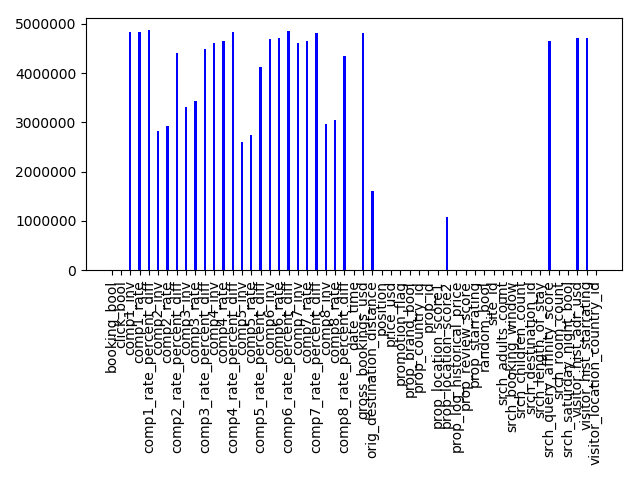
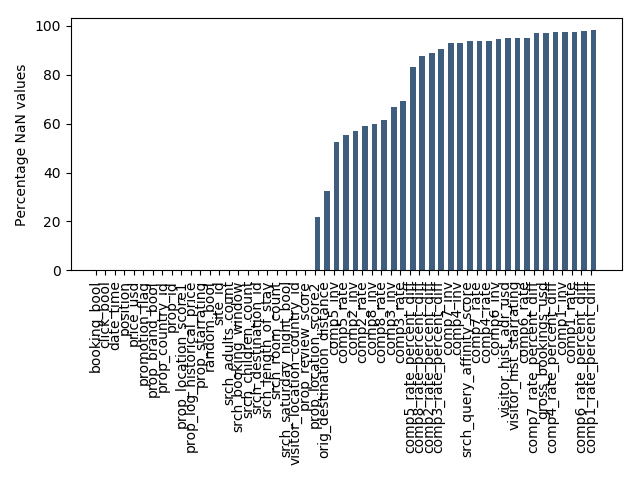
even duwen

diff --git a/1_data.py b/1_data.py
@@ -77,40 +77,50 @@ except IOError as e:
     raise e
 
 func = visualize_functions()
-cols_names = data_all.columns
-
 
 # func.heatmap_corr(data_all)
 # data_all.describe().to_csv('describe_data.csv')
 
+cols_names = data_all.columns
 nandat = data_all.isnull().sum()
 
-plt.bar(cols_names, nandat, 0.25, color="blue")
-plt.xticks(rotation='vertical')
+cols_names = [x for _,x in sorted(zip(nandat,cols_names))]
+nandat = nandat.sort_values()
+
+total = data_all.shape[0]
+
+nandat = [(e/total)*100 for e in nandat]
+
+sorted = range(len(cols_names))
+
+plt.bar(sorted, nandat , color="#3F5D7D", align='edge', width=0.6)
+plt.ylabel('Percentage NaN values')
+plt.xticks(sorted, cols_names, rotation='vertical')
+
 plt.tight_layout()
 plt.savefig('visualize/nanvalues.png')
 
-
-
 plt.close()
 
-range_book = [[0,2],[3,5],[6,11],[12,20],[21,50],[50,500000000000]]
-range_book_str = ['zero to two','three to five','six to eleven','twelve to twenty','twentyone to fifty','fifty plus']
+# range_book = [[0,2],[3,5],[6,],[12,20],[21,50],[50,500000000000]]
+# range_book_str = ['zero to two','three to five','six to eleven','twelve to twenty','twentyone to fifty','fifty plus']
 
-all2 = []
-
-for ran in range_book:
-    count = data_all.loc[(data_all['srch_booking_window'] >= ran[0]) & (data_all['srch_booking_window'] <= ran[1]) & (data_all['booking_bool'] == 1)].shape[0]
-    all2.append(count)
-
-print(range_book_str)
-
-plt.bar(range(len(range_book_str)), all2, 0.25, color="blue")
-plt.xticks(range(len(range_book_str)),range_book_str)
-plt.xticks(rotation='vertical')
-plt.savefig('visualize/book_window.png')
-plt.tight_layout()
-plt.show()
+# range_book = range(0,100)
+# range_book_str = [str(e) for e in range_book]
+# all2 = []
+#
+# for ran in range_book:
+#     count = data_all.loc[(data_all['srch_booking_window'] == ran) & (data_all['booking_bool'] == 1)].shape[0]
+#     all2.append(count)
+#
+# print(range_book_str)
+#
+# plt.bar(range(len(range_book_str)), all2, 0.25, color="blue")
+# plt.xticks(range(len(range_book_str)),range_book_str)
+# plt.xticks(rotation='vertical')
+# plt.savefig('visualize/book_window.png')
+# plt.tight_layout()
+# plt.show()
 
 
 

diff --git a/1_process.py b/1_process.py
@@ -1,0 +1,55 @@
+import copy
+import os
+import numpy as np
+
+import math
+import pandas
+import pandas as pd
+import datetime as dt
+import seaborn as sns
+import matplotlib.pyplot as plt
+import numpy.random as random
+from pandas import DataFrame
+from datetime import datetime
+import numpy
+from sklearn import preprocessing
+from sklearn.feature_selection import SelectKBest
+from sklearn.feature_selection import chi2
+from sklearn.feature_selection import RFE
+from sklearn.linear_model import LogisticRegression
+
+#Load the dataset from CSV
+try:
+    data_all = pd.read_csv("training_set_VU_DM_2014.csv", index_col=0, header=0,  delimiter=",")
+except IOError as e:
+    print('File not found!')
+    raise e
+
+cols_names = data_all.columns
+
+print(cols_names)
+
+data_all = data_all.drop(['visitor_hist_adr_usd', 'visitor_hist_starrating', 'srch_query_affinity_score', 'prop_starrating'])
+
+comp_names = [['comp1_rate', 'comp1_inv', 'comp1_rate_percent_diff'], ['comp2_rate', 'comp2_inv', 'comp2_rate_percent_diff'],
+              ['comp3_rate', 'comp3_inv', 'comp3_rate_percent_diff'], ['comp4_rate', 'comp4_inv', 'comp4_rate_percent_diff'],
+              ['comp5_rate', 'comp5_inv', 'comp5_rate_percent_diff'], ['comp6_rate', 'comp6_inv', 'comp6_rate_percent_diff'],
+              ['comp7_rate', 'comp7_inv', 'comp7_rate_percent_diff'], ['comp8_rate', 'comp8_inv', 'comp8_rate_percent_diff']]
+
+print(comp_names)
+
+total = data_all[comp_names[0][0]].where((data_all[comp_names[0][0]] == 4 & data_all[comp_names[0][1]] == 0),0)
+
+for comp in comp_names:
+    summing = data_all[comp[0]].where((data_all[comp[0]] == -1 & data_all[comp[1]] == 0),0)
+    total = pd.concat([total,summing],axis=1)
+
+total = total.sum(axis=1)
+
+print(total)
+print(total.loc[total < 0].shape)
+print(data_all.shape)
+
+
+# #save data to pickle file
+# data_all.to_pickle('preprocessed.pkl')
